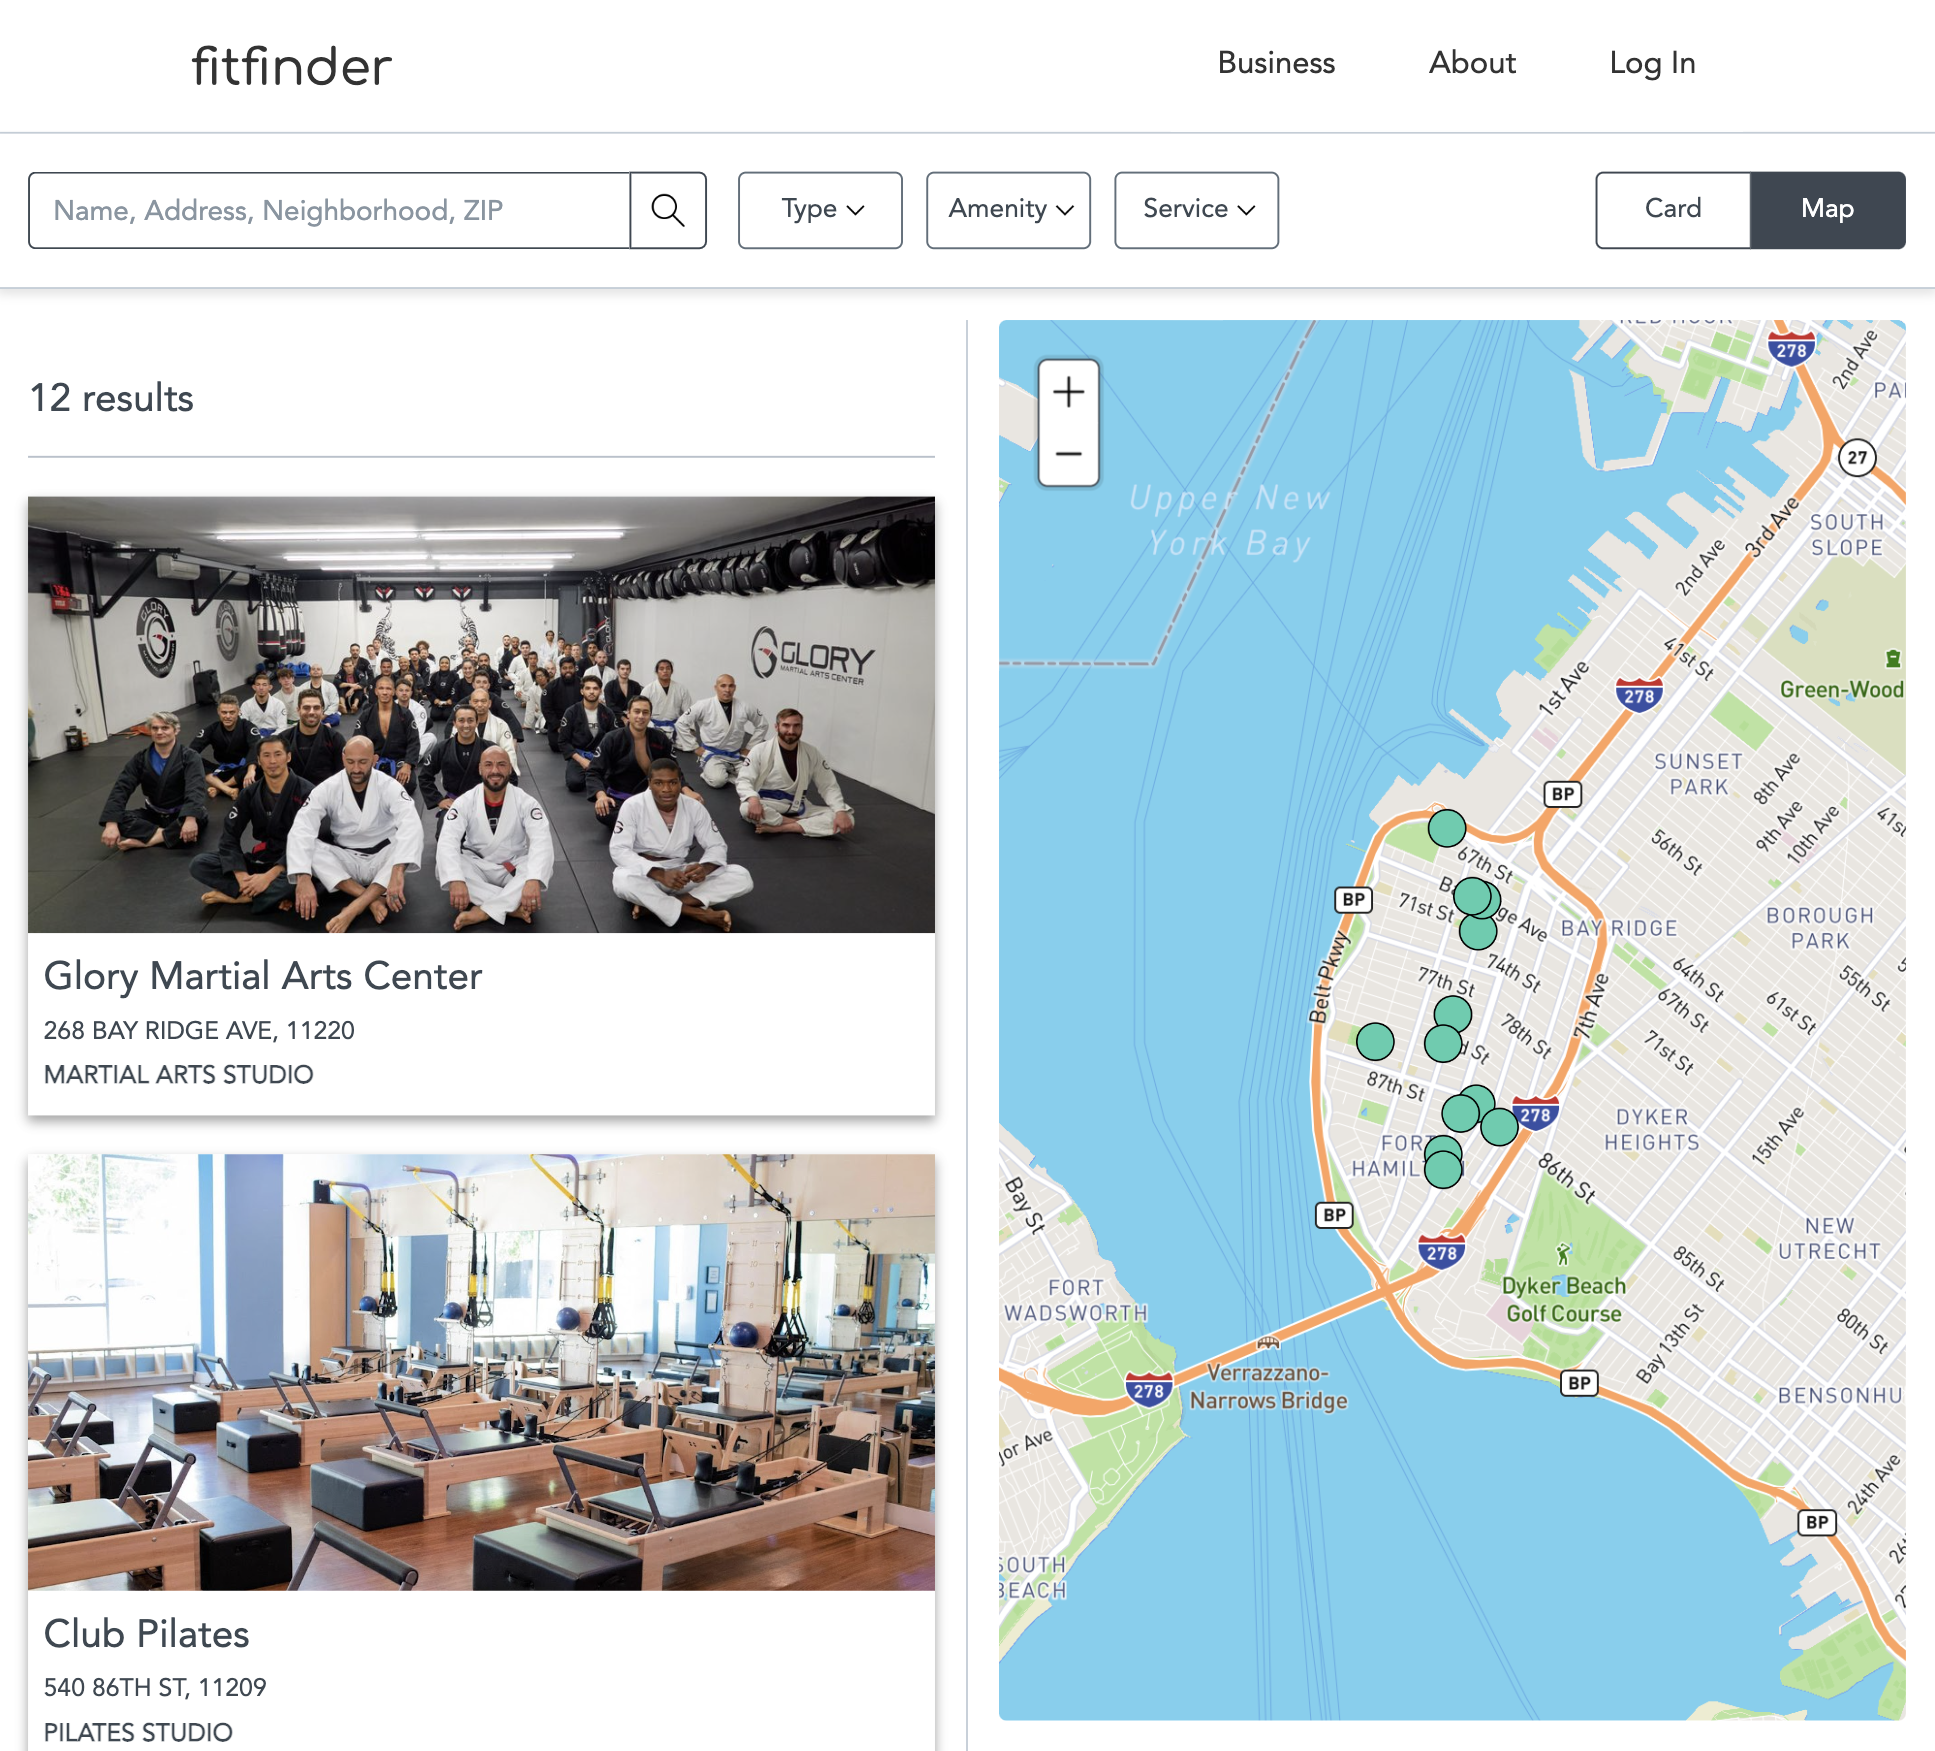
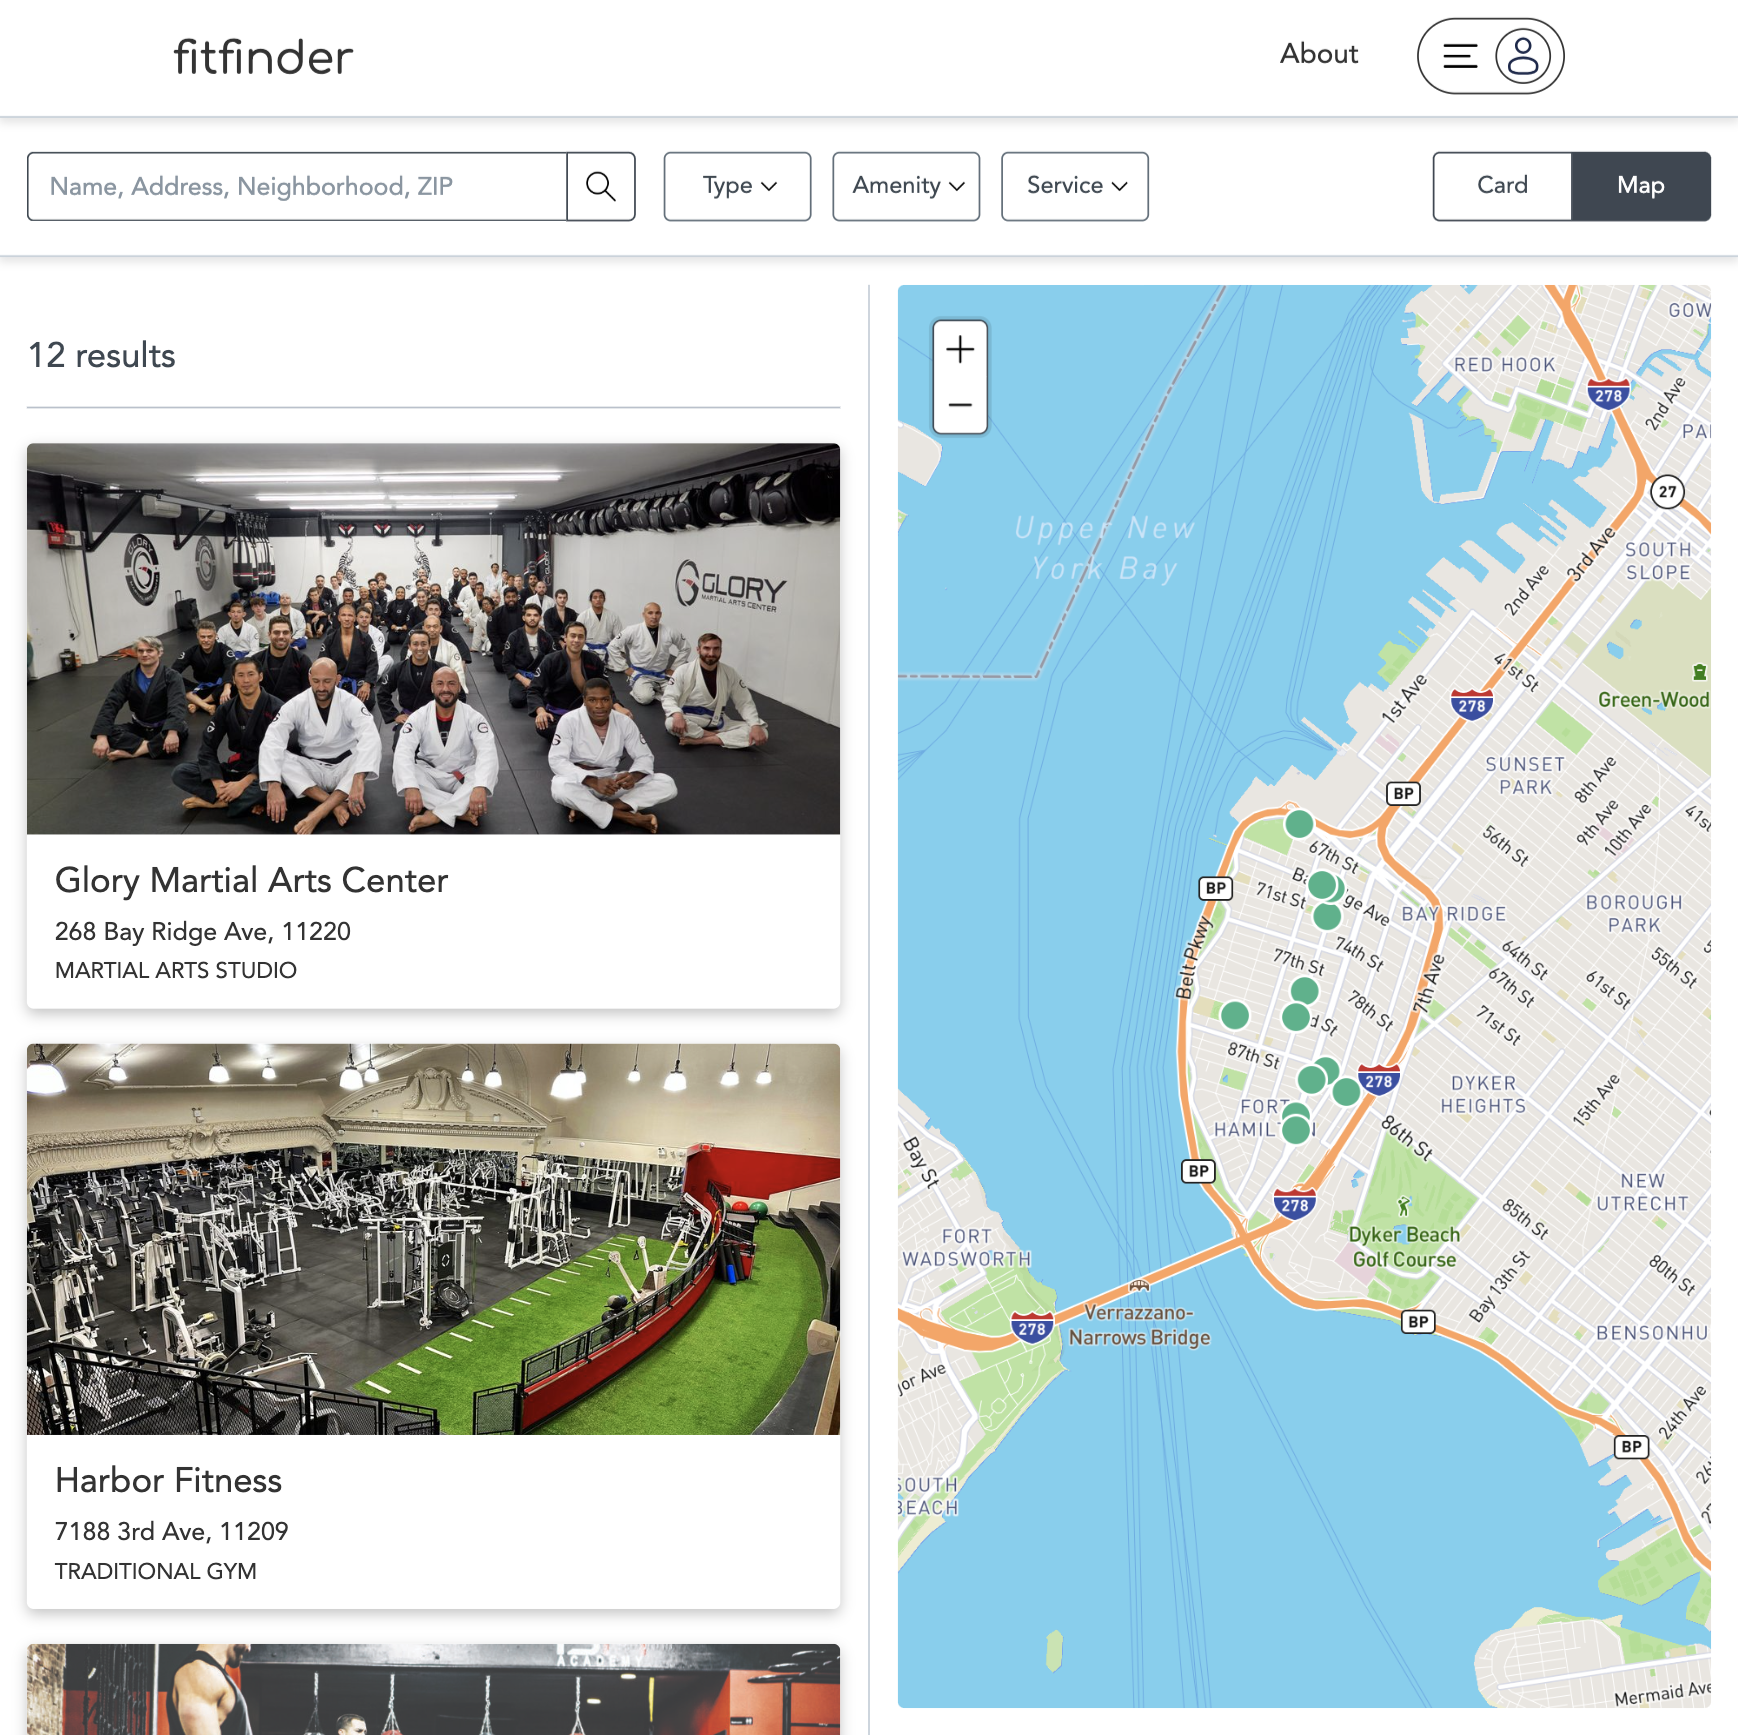
clean up styling across site

diff --git a/src/components/Main/FacilityPage/Information/SaveSection/_save-section.scss b/src/components/Main/FacilityPage/Information/SaveSection/_save-section.scss
@@ -8,7 +8,7 @@ $page-max-width: 800px;
   display: flex;
   justify-content: flex-end;
   width: 100%;
-  padding: 1rem;
+  padding: 0.75rem 1rem;
   border: 1px solid map-get($grey, 'light');
   border-radius: 6px;
   margin: 1rem 0;
@@ -41,47 +41,37 @@ $page-max-width: 800px;
     }
   }
 
-  .save-to-favorites-container {
-    display: inline-flex;
-    align-items: center;
-    gap: 0.6rem;
-    padding: 0.5rem 1rem;
+  .facility-add-favorite-btn {
+    @include center-elements;
+    border: none;
     border: 1px solid map-get($grey, 'light');
-    border-radius: 6px;
+    border-radius: 50%;
+    height: 3rem;
+    width: 3rem;
+    background-color: map-get($theme, 'white');
 
-    .facility-add-favorite-text {
-      font-size: 1rem;
-    }
+    svg {
+      height: 1.7rem;
+      width: 1.7rem;
+      stroke-width: 1.2;
+      opacity: 0.8;
+      stroke: #333333;
 
-    .facility-add-favorite-btn {
-      @include center-elements;
-      border: none;
-      background-color: map-get($theme, 'white');
-      
-      svg {
-        height: 2rem;
-        width: 2rem;
-        stroke-width: 1.2;
-        opacity: 0.8;
-        stroke: #333333;
+      @include smooth-hover(transform);
 
-        @include smooth-hover(transform);
-
-        &:hover {
-          cursor: pointer;
-          transform: scale(1.075);
-        }
-
-        &:active {
-          transform: scale(0.975);
-        }
+      &:hover {
+        cursor: pointer;
+        transform: scale(1.075);
       }
 
+      &.filled {
+        height: 1.8rem;
+        width: 1.8rem;
+        stroke: none;
+      }
     }
-
   }
 }
-
 @media(min-width: 768px) {
   .facility-save-section-container {
     width: $page-max-width;

diff --git a/src/components/Main/AccountPage/Tabs/DetailsTab/_details-tab.scss b/src/components/Main/AccountPage/Tabs/DetailsTab/_details-tab.scss
@@ -7,7 +7,7 @@
 
   .account-details-header {
     font-size: 1.25rem;
-    font-weight: 400;
+    font-weight: 500;
     padding: 0 0 1.25rem;
     color: map-get($grey, 'darker');
   }
@@ -20,19 +20,19 @@
     .account-details-section {
       display: flex;
       flex-direction: column;
-      gap: 0.5rem;
+      gap: 0.75rem;
       border: 1px solid map-get($grey, 'lighter');
       border-radius: 6px;
       padding: 1rem;
   
       .account-details-title {
         font-size: 0.9rem;
-        font-weight: 700;
+        font-weight: 500;
       }
   
       .account-name,
       .account-id {
-        font-size: 1.25rem;
+        font-size: 1.2rem;
       }
     }
 
@@ -48,5 +48,15 @@
       padding: 0 0 2rem;
     }
 
+    .account-details-body {
+
+      .account-details-section {
+
+        .account-name,
+        .account-id {
+          font-size: 1.25rem;
+        }
+      }
+    }
   }
 }

diff --git a/src/components/Main/AccountPage/Tabs/FavoritesTab/AddFavoriteButton/_add-favorite-btn.scss b/src/components/Main/AccountPage/Tabs/FavoritesTab/AddFavoriteButton/_add-favorite-btn.scss
@@ -1,19 +1,25 @@
 @import '../../../../../../styles/colors';
 @import '../../../../../../styles/transitions';
+@import '../../../../../../styles/mixins';
 
 .add-favorite-btn {
+  @include center-elements;
   position: absolute;
-  bottom: 3.1rem;
+  bottom: 7rem;
   right: 0.8rem;
-  border: none;
+  height: 2.75rem;
+  width: 2.75rem;
+  border: 1px solid map-get($theme, 'black');
+  border-radius: 50%;
   background-color: map-get($theme, 'white');
 
-  svg {
-    height: 2rem;
-    width: 2rem;
+  .favorite-svg {
+    height: 1.5rem;
+    width: 1.5rem;
     stroke-width: 1.2;
     opacity: 0.8;
     stroke: #333333;
+    fill: none;
 
     @include smooth-hover(transform);
 
@@ -22,8 +28,10 @@
       transform: scale(1.05);
     }
 
-    &:active {
-      transform: scale(0.975);
+    &.filled {
+      stroke: none;
+      height: 1.6rem;
+      width: 1.6rem;
     }
   }
 

diff --git a/src/components/Main/FacilityPage/Information/SaveSection/SaveSection.tsx b/src/components/Main/FacilityPage/Information/SaveSection/SaveSection.tsx
@@ -13,10 +13,7 @@ const FacilitySaveSection = () => {
   return (
     <div className="facility-save-section-container">
       {isLoggedIn && userAccount && selectedFacility ? (
-        <div className="save-to-favorites-container">
-          <div className="facility-add-favorite-text">Save</div>
-          <AddFavoriteButton userAccountId={userAccount.id} facilityId={selectedFacility.id} customClass='facility-add-favorite-btn'/>
-        </div>
+        <AddFavoriteButton userAccountId={userAccount.id} facilityId={selectedFacility.id} customClass='facility-add-favorite-btn'/>
       ) : (
         <div className="encourage-login-container">
           <div className="encourage-text">Want to save this location?</div>

diff --git a/src/components/Main/Card/FacilityCard/_facility-card.scss b/src/components/Main/Card/FacilityCard/_facility-card.scss
@@ -10,6 +10,7 @@
   display: flex;
   flex-direction: column;
   background-color: map-get($theme, 'white');
+  border-radius: 6px;
   box-shadow: rgba(0, 0, 0, 0.24) 0px 3px 8px;
   
   @include smooth-hover(box-shadow);
@@ -30,6 +31,8 @@
       height: 225px;
       background-color: map-get($theme, 'white');
       overflow: hidden;
+      border-top-left-radius: 6px;
+      border-top-right-radius: 6px;
     
       img {
         height: 100%;
@@ -48,8 +51,9 @@
       display: flex;
       padding: 1rem;
       height: 100px;
+      border-bottom-left-radius: 6px;
+      border-bottom-right-radius: 6px;
       
-  
       .facility-card-info {
         display: flex;
         flex: 1;

diff --git a/src/components/Main/AccountPage/Tabs/FavoritesTab/AddFavoriteButton/FavoriteSVG.tsx b/src/components/Main/AccountPage/Tabs/FavoritesTab/AddFavoriteButton/FavoriteSVG.tsx
@@ -5,13 +5,12 @@ type FavoriteSVGProps = {
 const FavoriteSVG = ({ isFilled }: FavoriteSVGProps) => (
   <svg 
     viewBox="0 0 24 24" 
-    fill="none" 
     xmlns="http://www.w3.org/2000/svg"
+    className={`favorite-svg ${isFilled ? 'filled': ''}`}
+    style={{ fill: isFilled ? "#FF0000" : "none" }}
   >
     <path 
-      className="favorite-svg-path"
       d="M12 21.35l-1.45-1.32C5.4 15.36 2 12.28 2 8.5 2 5.42 4.42 3 7.5 3c1.74 0 3.41.81 4.5 2.09C13.09 3.81 14.76 3 16.5 3 19.58 3 22 5.42 22 8.5c0 3.78-3.4 6.86-8.55 11.54L12 21.35z" 
-      fill={isFilled ? "#FF0000" : "none"} 
     />
   </svg>
 );

diff --git a/src/components/Main/SearchPage/Subheader/Mobile/MobileFilterDisplay/_mobile-filter-display.scss b/src/components/Main/SearchPage/Subheader/Mobile/MobileFilterDisplay/_mobile-filter-display.scss
@@ -30,13 +30,15 @@
     .mobile-filter-title {
       @include center-elements;
       font-size: 1.25rem;
+      font-weight: 500;
+      color: map-get($theme, 'black');
     }
   }
 
   .mobile-filter-done-btn-container {
     display: flex;
     justify-content: center;
-    margin: 1rem 0 1.5rem;
+    margin: 1rem 0 2.5rem;
 
     .mobile-filter-done-btn {
       font-size: 1rem;

diff --git a/src/components/Main/Card/FacilityCard/FacilityCard.tsx b/src/components/Main/Card/FacilityCard/FacilityCard.tsx
@@ -26,6 +26,7 @@ const FacilityCard = ({ onClick, ...facility }: FacilityCard) => {
     <Link to={`/facility`} className="facility-card-link-wrapper">
       <div className='facility-photo-container' >
         {photo && <img src={photo} alt="facility main photo" />}
+        
       </div>
       <div className="facility-card-bottom">
         <div className='facility-card-info'>

diff --git a/src/components/Main/SearchPage/ResultsSection/Map/MapOverlay/_map-overlay.scss b/src/components/Main/SearchPage/ResultsSection/Map/MapOverlay/_map-overlay.scss
@@ -5,7 +5,7 @@
 .map-overlay-container {
   position: sticky;
   top: 150px;
-  height: calc(100vh - 140px);
+  height: calc(100dvh - 140px);
 
   .mapboxgl-map {
     border-radius: 4px;
@@ -117,7 +117,7 @@
 
 @media (min-width: 768px) {
   .map-overlay-container {
-    height: calc(100vh - 150px);
+    height: calc(100dvh - 150px);
     width: 50%;
     padding: 1rem;
 

diff --git a/src/components/Main/AccountPage/Tabs/FavoritesTab/_favorites-tab.scss b/src/components/Main/AccountPage/Tabs/FavoritesTab/_favorites-tab.scss
@@ -8,7 +8,7 @@
 
     .account-favorites-header {
       font-size: 1.25rem;
-      font-weight: 400;
+      font-weight: 500;
       padding: 0 0 1.25rem;
       border-bottom: 1px solid map-get($grey, 'lighter');
       color: map-get($grey, 'darker');

diff --git a/src/components/Main/SearchPage/Subheader/Mobile/MobileFilterDisplay/MobileFilterMenu/MobileFilterCategory/_mobile-filter-category.scss b/src/components/Main/SearchPage/Subheader/Mobile/MobileFilterDisplay/MobileFilterMenu/MobileFilterCategory/_mobile-filter-category.scss
@@ -14,8 +14,8 @@
     padding: 0.75rem 0 1.25rem;
 
     .mobile-filter-category-title {
-      font-size: 0.8rem;
-      font-weight: 700;
+      font-size: 0.9rem;
+      font-weight: 500;
       margin: 0 0 1rem;
     }
 

diff --git a/src/components/Main/SearchPage/FilterButtons/_filter-btns.scss b/src/components/Main/SearchPage/FilterButtons/_filter-btns.scss
@@ -7,6 +7,6 @@
   height: 2rem;
   width: 4rem;
   font-size: 0.85rem;
-  font-weight: 700;
-  color: map-get($grey, 'darker');
+  font-weight: 500;
+  color: map-get($theme, 'black');
 }
